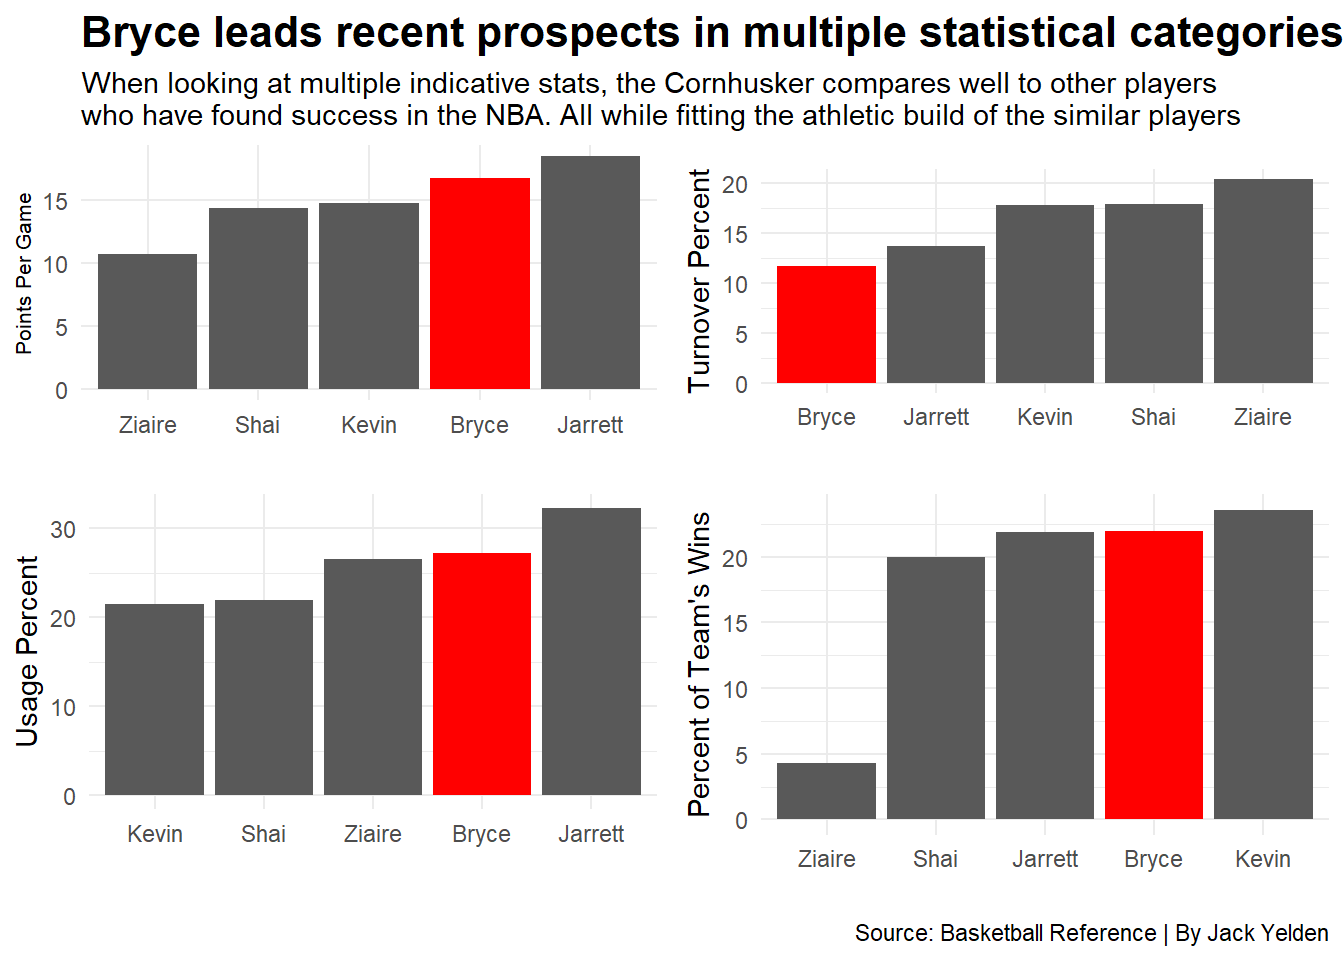
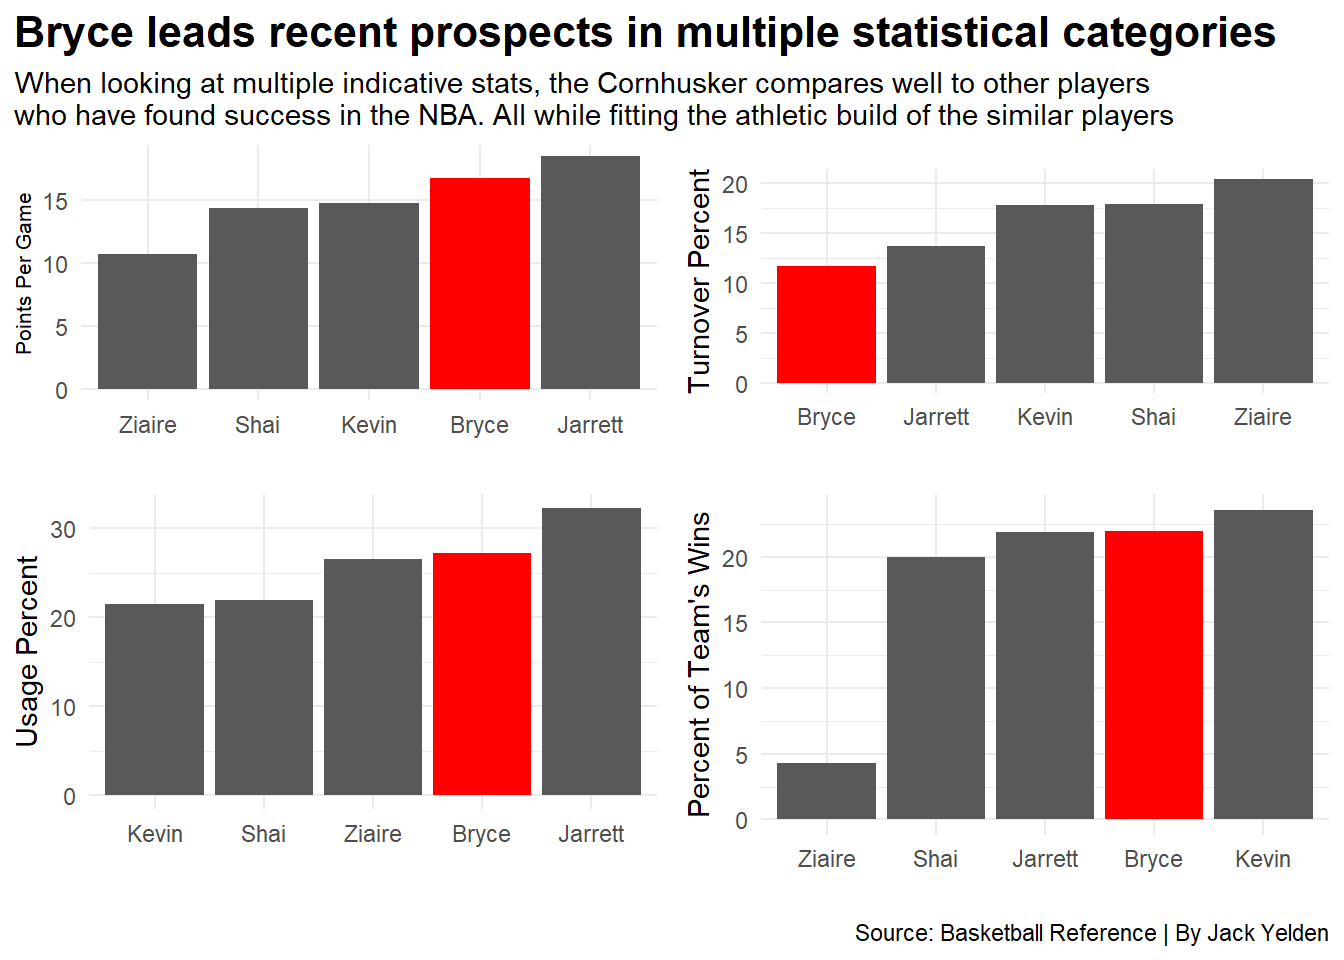
Fix plot title position

Changed region(s): [[0.0, 0.0, 1.0, 0.1562]]

diff --git a/2022/04/05/bryce-mcgowens-nba-potential/index.html b/2022/04/05/bryce-mcgowens-nba-potential/index.html
@@ -72,12 +72,12 @@
 
 <p>Nebraska Basketball had a poor 2021-2022 season, but if you were going to point to a single bright spot, it would probably be Bryce McGowens. The Freshman from South Carolina was the highest-rated recruit in Nebraska Basketball history and contributed heavily on a team that had few play-makers.</p>
 <p>McGowens has been on the radar of NBA teams since he was in high school, such is the life of being a highly rated recruit. That being said, he took a chance coming to Nebraska over several other schools that have had more success on the national level in recent years. This is not necessarily a new thing, as players frequently do this so they don’t have to share the ball with other prospects and are able to show off their skills. All of this being said, where does Bryce McGowens compare to other professional players and former Cornhuskers.</p>
-<div id="jxowmmkipg" style="overflow-x:auto;overflow-y:auto;width:auto;height:auto;">
+<div id="wbwfvvunhv" style="overflow-x:auto;overflow-y:auto;width:auto;height:auto;">
 <style>html {
   font-family: -apple-system, BlinkMacSystemFont, 'Segoe UI', Roboto, Oxygen, Ubuntu, Cantarell, 'Helvetica Neue', 'Fira Sans', 'Droid Sans', Arial, sans-serif;
 }
 
-#jxowmmkipg .gt_table {
+#wbwfvvunhv .gt_table {
   display: table;
   border-collapse: collapse;
   margin-left: auto;
@@ -102,7 +102,7 @@
   border-left-color: #D3D3D3;
 }
 
-#jxowmmkipg .gt_heading {
+#wbwfvvunhv .gt_heading {
   background-color: #FFFFFF;
   text-align: center;
   border-bottom-color: #FFFFFF;
@@ -114,7 +114,7 @@
   border-right-color: #D3D3D3;
 }
 
-#jxowmmkipg .gt_title {
+#wbwfvvunhv .gt_title {
   color: #333333;
   font-size: 125%;
   font-weight: initial;
@@ -126,7 +126,7 @@
   border-bottom-width: 0;
 }
 
-#jxowmmkipg .gt_subtitle {
+#wbwfvvunhv .gt_subtitle {
   color: #333333;
   font-size: 85%;
   font-weight: initial;
@@ -138,13 +138,13 @@
   border-top-width: 0;
 }
 
-#jxowmmkipg .gt_bottom_border {
+#wbwfvvunhv .gt_bottom_border {
   border-bottom-style: none;
   border-bottom-width: 2px;
   border-bottom-color: #D3D3D3;
 }
 
-#jxowmmkipg .gt_col_headings {
+#wbwfvvunhv .gt_col_headings {
   border-top-style: none;
   border-top-width: 2px;
   border-top-color: #D3D3D3;
@@ -159,7 +159,7 @@
   border-right-color: #D3D3D3;
 }
 
-#jxowmmkipg .gt_col_heading {
+#wbwfvvunhv .gt_col_heading {
   color: #333333;
   background-color: #FFFFFF;
   font-size: 100%;
@@ -179,7 +179,7 @@
   overflow-x: hidden;
 }
 
-#jxowmmkipg .gt_column_spanner_outer {
+#wbwfvvunhv .gt_column_spanner_outer {
   color: #333333;
   background-color: #FFFFFF;
   font-size: 100%;
@@ -191,15 +191,15 @@
   padding-right: 4px;
 }
 
-#jxowmmkipg .gt_column_spanner_outer:first-child {
+#wbwfvvunhv .gt_column_spanner_outer:first-child {
   padding-left: 0;
 }
 
-#jxowmmkipg .gt_column_spanner_outer:last-child {
+#wbwfvvunhv .gt_column_spanner_outer:last-child {
   padding-right: 0;
 }
 
-#jxowmmkipg .gt_column_spanner {
+#wbwfvvunhv .gt_column_spanner {
   border-bottom-style: none;
   border-bottom-width: 2px;
   border-bottom-color: #D3D3D3;
@@ -211,7 +211,7 @@
   width: 100%;
 }
 
-#jxowmmkipg .gt_group_heading {
+#wbwfvvunhv .gt_group_heading {
   padding-top: 8px;
   padding-bottom: 8px;
   padding-left: 5px;
@@ -236,7 +236,7 @@
   vertical-align: middle;
 }
 
-#jxowmmkipg .gt_empty_group_heading {
+#wbwfvvunhv .gt_empty_group_heading {
   padding: 0.5px;
   color: #333333;
   background-color: #FFFFFF;
@@ -251,15 +251,15 @@
   vertical-align: middle;
 }
 
-#jxowmmkipg .gt_from_md > :first-child {
+#wbwfvvunhv .gt_from_md > :first-child {
   margin-top: 0;
 }
 
-#jxowmmkipg .gt_from_md > :last-child {
+#wbwfvvunhv .gt_from_md > :last-child {
   margin-bottom: 0;
 }
 
-#jxowmmkipg .gt_row {
+#wbwfvvunhv .gt_row {
   padding-top: 8px;
   padding-bottom: 8px;
   padding-left: 5px;
@@ -278,7 +278,7 @@
   overflow-x: hidden;
 }
 
-#jxowmmkipg .gt_stub {
+#wbwfvvunhv .gt_stub {
   color: #333333;
   background-color: #FFFFFF;
   font-size: 100%;
@@ -291,7 +291,7 @@
   padding-right: 5px;
 }
 
-#jxowmmkipg .gt_stub_row_group {
+#wbwfvvunhv .gt_stub_row_group {
   color: #333333;
   background-color: #FFFFFF;
   font-size: 100%;
@@ -305,11 +305,11 @@
   vertical-align: top;
 }
 
-#jxowmmkipg .gt_row_group_first td {
+#wbwfvvunhv .gt_row_group_first td {
   border-top-width: 2px;
 }
 
-#jxowmmkipg .gt_summary_row {
+#wbwfvvunhv .gt_summary_row {
   color: #333333;
   background-color: #FFFFFF;
   text-transform: inherit;
@@ -319,16 +319,16 @@
   padding-right: 5px;
 }
 
-#jxowmmkipg .gt_first_summary_row {
+#wbwfvvunhv .gt_first_summary_row {
   border-top-style: none;
   border-top-color: #D3D3D3;
 }
 
-#jxowmmkipg .gt_first_summary_row.thick {
+#wbwfvvunhv .gt_first_summary_row.thick {
   border-top-width: 2px;
 }
 
-#jxowmmkipg .gt_last_summary_row {
+#wbwfvvunhv .gt_last_summary_row {
   padding-top: 8px;
   padding-bottom: 8px;
   padding-left: 5px;
@@ -338,7 +338,7 @@
   border-bottom-color: #D3D3D3;
 }
 
-#jxowmmkipg .gt_grand_summary_row {
+#wbwfvvunhv .gt_grand_summary_row {
   color: #333333;
   background-color: #FFFFFF;
   text-transform: inherit;
@@ -348,7 +348,7 @@
   padding-right: 5px;
 }
 
-#jxowmmkipg .gt_first_grand_summary_row {
+#wbwfvvunhv .gt_first_grand_summary_row {
   padding-top: 8px;
   padding-bottom: 8px;
   padding-left: 5px;
@@ -358,11 +358,11 @@
   border-top-color: #D3D3D3;
 }
 
-#jxowmmkipg .gt_striped {
+#wbwfvvunhv .gt_striped {
   background-color: rgba(128, 128, 128, 0.05);
 }
 
-#jxowmmkipg .gt_table_body {
+#wbwfvvunhv .gt_table_body {
   border-top-style: none;
   border-top-width: 2px;
   border-top-color: #D3D3D3;
@@ -371,7 +371,7 @@
   border-bottom-color: #D3D3D3;
 }
 
-#jxowmmkipg .gt_footnotes {
+#wbwfvvunhv .gt_footnotes {
   color: #333333;
   background-color: #FFFFFF;
   border-bottom-style: none;
@@ -385,7 +385,7 @@
   border-right-color: #D3D3D3;
 }
 
-#jxowmmkipg .gt_footnote {
+#wbwfvvunhv .gt_footnote {
   margin: 0px;
   font-size: 90%;
   padding-left: 4px;
@@ -394,7 +394,7 @@
   padding-right: 5px;
 }
 
-#jxowmmkipg .gt_sourcenotes {
+#wbwfvvunhv .gt_sourcenotes {
   color: #333333;
   background-color: #FFFFFF;
   border-bottom-style: none;
@@ -408,7 +408,7 @@
   border-right-color: #D3D3D3;
 }
 
-#jxowmmkipg .gt_sourcenote {
+#wbwfvvunhv .gt_sourcenote {
   font-size: 90%;
   padding-top: 4px;
   padding-bottom: 4px;
@@ -416,60 +416,60 @@
   padding-right: 5px;
 }
 
-#jxowmmkipg .gt_left {
+#wbwfvvunhv .gt_left {
   text-align: left;
 }
 
-#jxowmmkipg .gt_center {
+#wbwfvvunhv .gt_center {
   text-align: center;
 }
 
-#jxowmmkipg .gt_right {
+#wbwfvvunhv .gt_right {
   text-align: right;
   font-variant-numeric: tabular-nums;
 }
 
-#jxowmmkipg .gt_font_normal {
+#wbwfvvunhv .gt_font_normal {
   font-weight: normal;
 }
 
-#jxowmmkipg .gt_font_bold {
+#wbwfvvunhv .gt_font_bold {
   font-weight: bold;
 }
 
-#jxowmmkipg .gt_font_italic {
+#wbwfvvunhv .gt_font_italic {
   font-style: italic;
 }
 
-#jxowmmkipg .gt_super {
+#wbwfvvunhv .gt_super {
   font-size: 65%;
 }
 
-#jxowmmkipg .gt_footnote_marks {
+#wbwfvvunhv .gt_footnote_marks {
   font-style: italic;
   font-weight: normal;
   font-size: 75%;
   vertical-align: 0.4em;
 }
 
-#jxowmmkipg .gt_asterisk {
+#wbwfvvunhv .gt_asterisk {
   font-size: 100%;
   vertical-align: 0;
 }
 
-#jxowmmkipg .gt_slash_mark {
+#wbwfvvunhv .gt_slash_mark {
   font-size: 0.7em;
   line-height: 0.7em;
   vertical-align: 0.15em;
 }
 
-#jxowmmkipg .gt_fraction_numerator {
+#wbwfvvunhv .gt_fraction_numerator {
   font-size: 0.6em;
   line-height: 0.6em;
   vertical-align: 0.45em;
 }
 
-#jxowmmkipg .gt_fraction_denominator {
+#wbwfvvunhv .gt_fraction_denominator {
   font-size: 0.6em;
   line-height: 0.6em;
   vertical-align: -0.05em;
